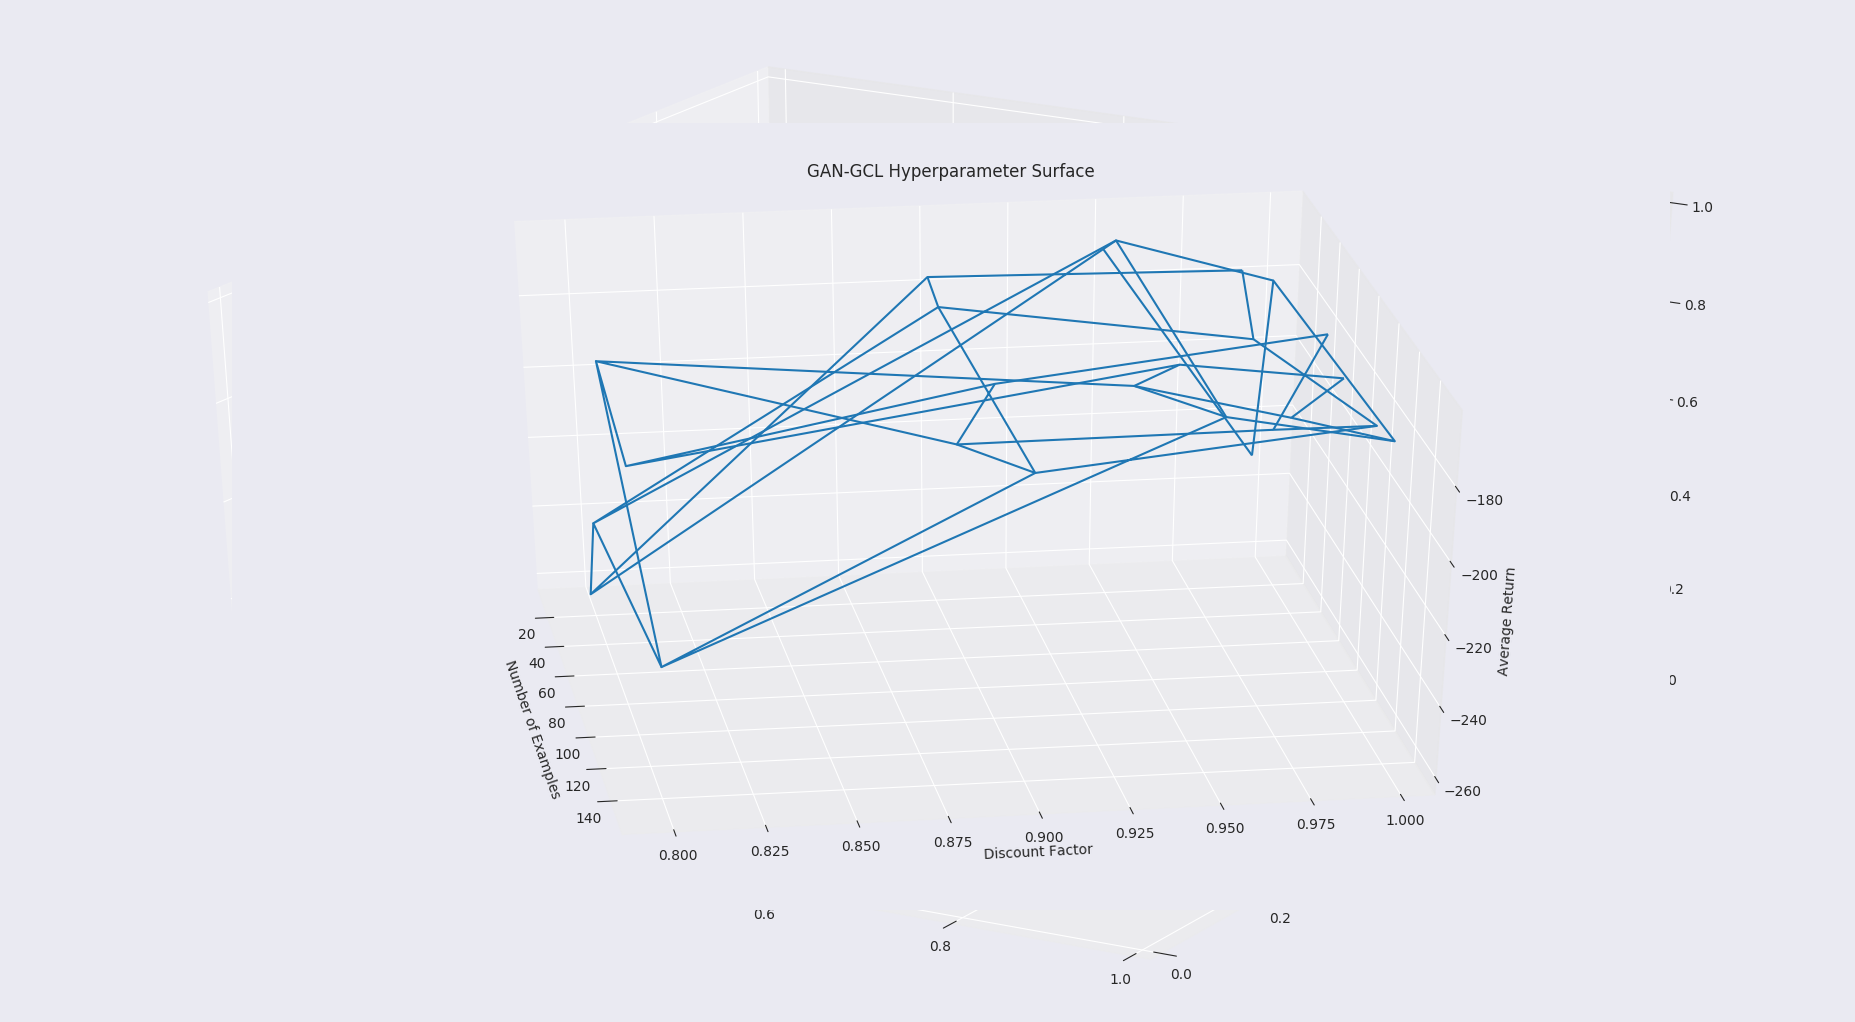
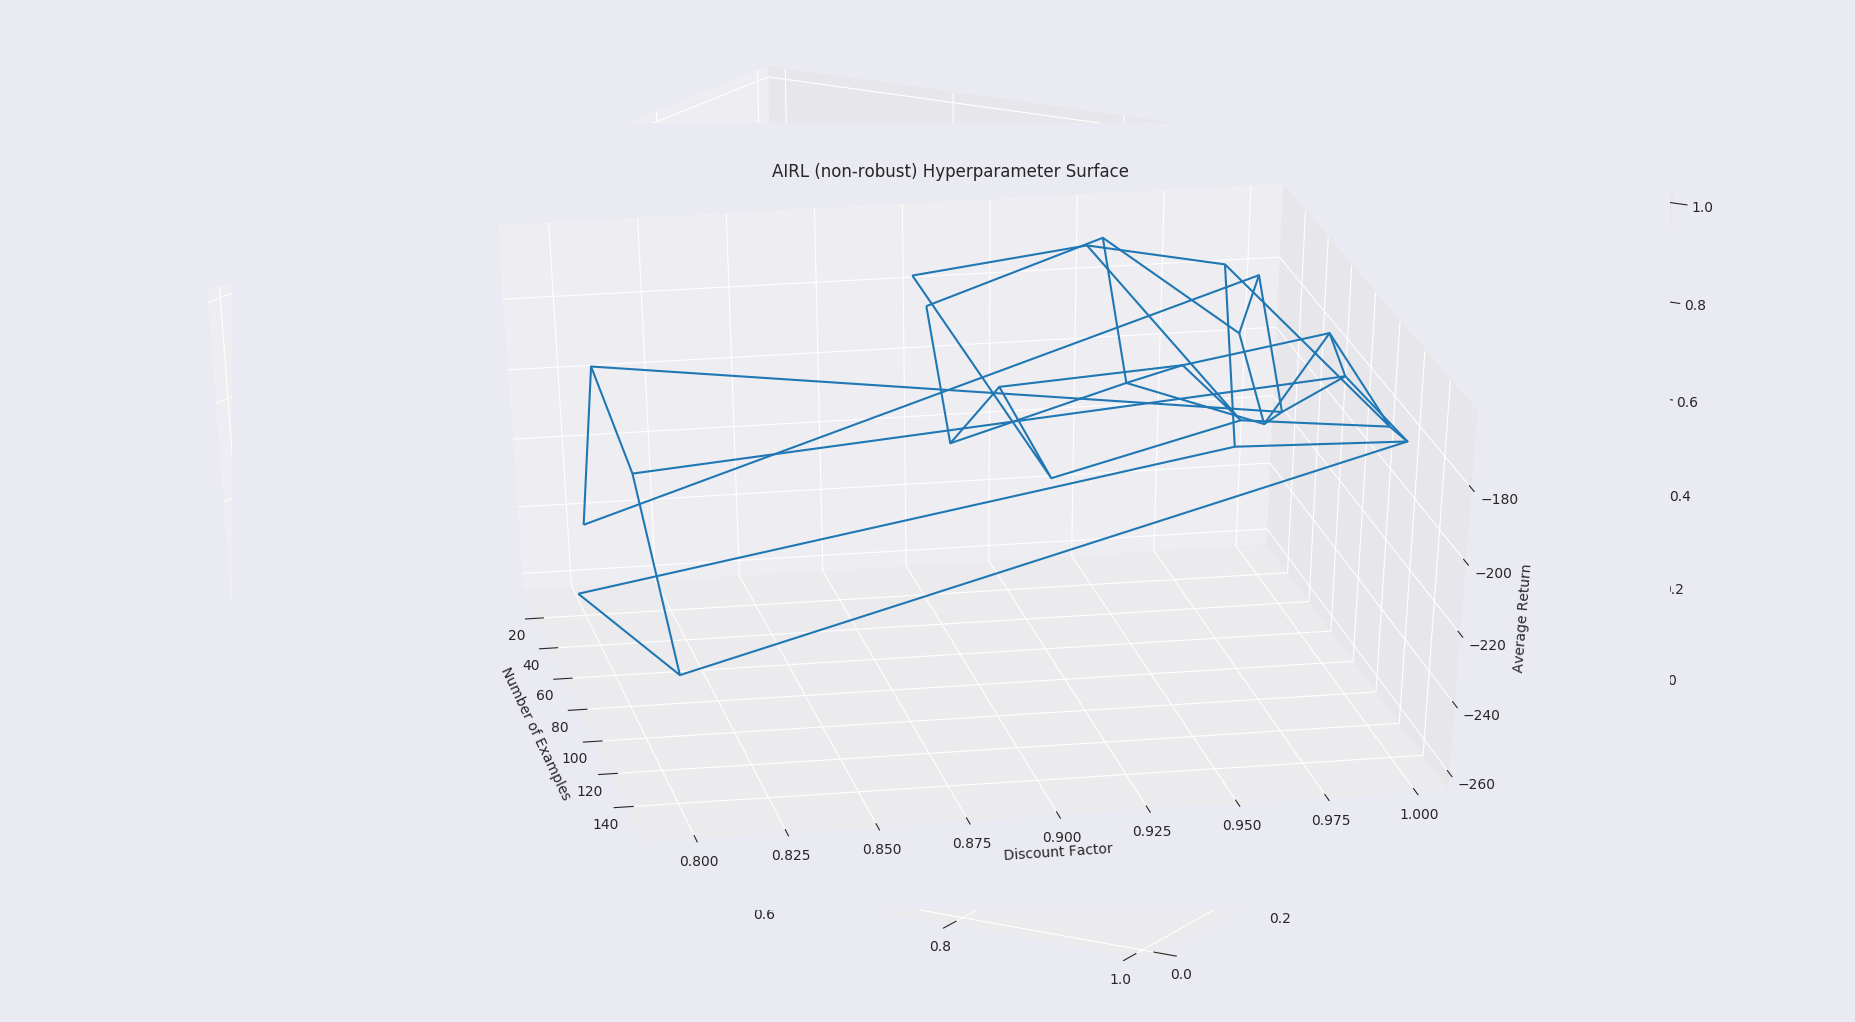
Fixed image labels

diff --git a/scripts/generate_hparam_surface.py b/scripts/generate_hparam_surface.py
@@ -28,9 +28,9 @@ def plot(examples, discounts, scores, algorithm, output_file):
 	ax.set_xlabel('Number of Examples')
 	ax.set_ylabel('Discount Factor')
 	ax.set_zlabel('Average Return')
-	if algorithm == 'TRAJ':
-		algorithm = 'AIRL (trajectory)'
-	elif algorithm == 'GCL':
+	if algorithm == 'GCL':
+		algorithm = 'AIRL (non-robust)'
+	elif algorithm == 'TRAJ':
 		algorithm = 'GAN-GCL'
 	ax.set_title('{} Hyperparameter Surface'.format(algorithm))
 	plt.show()
